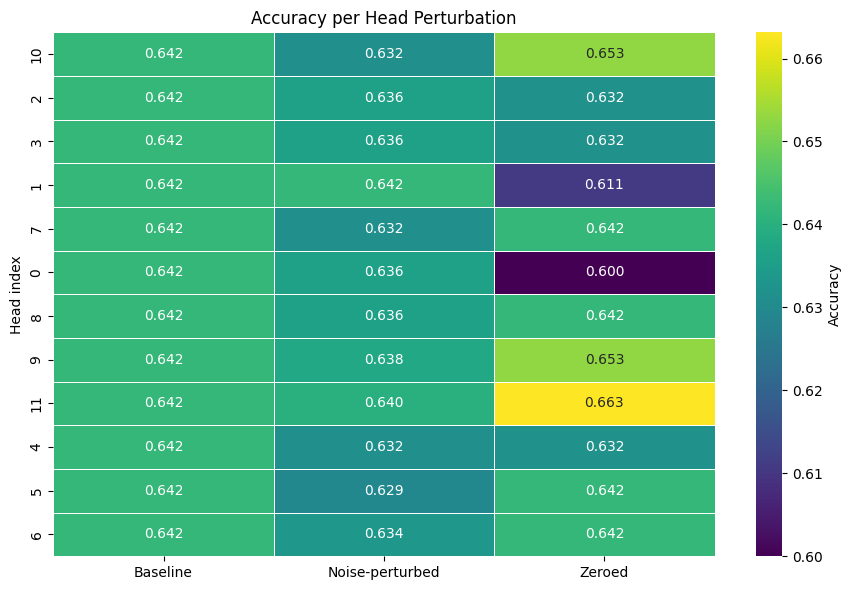
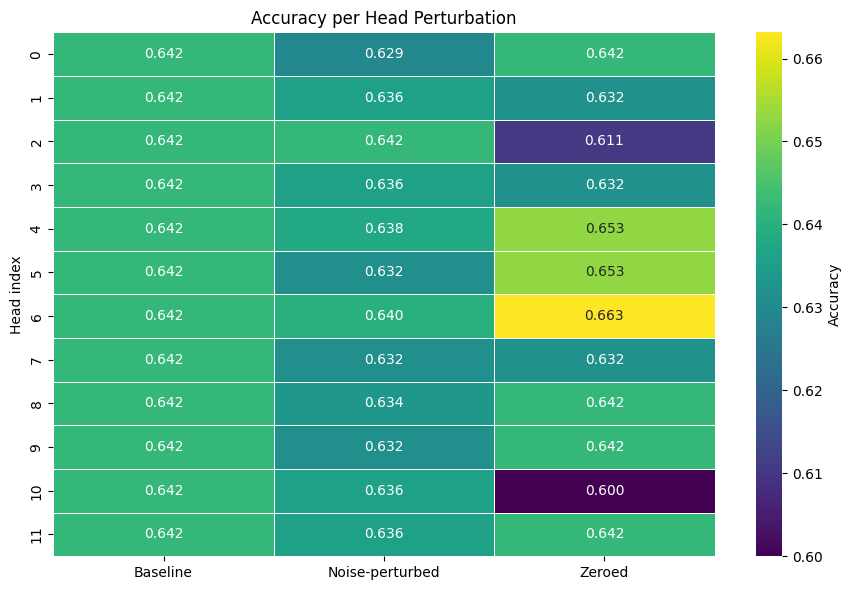
fixed plotting error

diff --git a/plotting_utils.py b/plotting_utils.py
@@ -16,12 +16,12 @@ def _save_fig(fig, plots_dir: Path, name: str) -> Path:
 
 
 def plot_contributions_heatmap(df: pd.DataFrame, plots_dir: Path) -> Path:
+    df_idx = df.set_index("head").sort_index()
     contrib_df = pd.DataFrame(
         {
-            "Noise contribution": df["noise_contrib"],
-            "Zeroing contribution": df["zero_contrib"],
-        },
-        index=df["head"],
+            "Noise contribution": df_idx["noise_contrib"],
+            "Zeroing contribution": df_idx["zero_contrib"],
+        }
     )
 
     fig, ax = plt.subplots(figsize=(8, 6))
@@ -42,13 +42,13 @@ def plot_contributions_heatmap(df: pd.DataFrame, plots_dir: Path) -> Path:
 
 
 def plot_accuracy_heatmap(df: pd.DataFrame, baseline_acc: float, plots_dir: Path) -> Path:
+    df_idx = df.set_index("head").sort_index()
     acc_df = pd.DataFrame(
         {
-            "Baseline": [baseline_acc] * len(df),
-            "Noise-perturbed": df["noise_mean_acc"],
-            "Zeroed": df["zero_acc"],
-        },
-        index=df["head"],
+            "Baseline": [baseline_acc] * len(df_idx),
+            "Noise-perturbed": df_idx["noise_mean_acc"],
+            "Zeroed": df_idx["zero_acc"],
+        }
     )
 
     fig, ax = plt.subplots(figsize=(9, 6))
@@ -68,7 +68,7 @@ def plot_accuracy_heatmap(df: pd.DataFrame, baseline_acc: float, plots_dir: Path
 
 
 def plot_noise_stats(df: pd.DataFrame, plots_dir: Path) -> Path:
-    df_idx = df.set_index("head")
+    df_idx = df.set_index("head").sort_index()
     fig, axes = plt.subplots(nrows=1, ncols=2, figsize=(10, 6), sharey=True, gridspec_kw={"width_ratios": [1, 1]})
 
     sns.heatmap(
